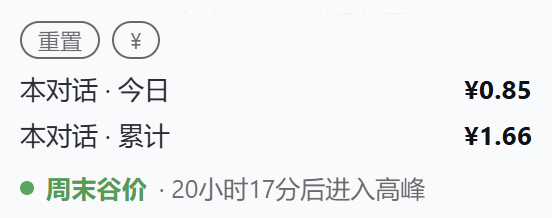
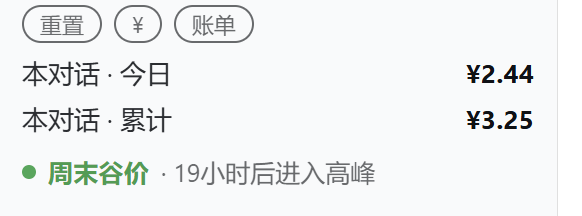
docs: refresh screenshot, drop the feedback section

diff --git a/README.en.md b/README.en.md
@@ -6,7 +6,7 @@
 [![License: MIT](https://img.shields.io/badge/License-MIT-blue.svg)](LICENSE)
 [![Release](https://img.shields.io/github/v/release/Fireawa/dsh-convo-tally)](https://github.com/Fireawa/dsh-convo-tally/releases)
 
-![Sidebar widget: reset button, currency toggle, today and total amounts, peak/off-peak badge](https://raw.githubusercontent.com/Fireawa/dsh-convo-tally/main/docs/screenshot.png)
+![Sidebar widget: reset, currency toggle and bill buttons; today and total amounts; peak/off-peak badge](https://raw.githubusercontent.com/Fireawa/dsh-convo-tally/main/docs/screenshot.png)
 
 [中文](README.md) · [Changelog](CHANGELOG.md) · [License](#license)
 
@@ -146,15 +146,6 @@ lib/pricing.js     official price tables, peak-window logic, cost math (pure fun
 lib/client.js      browser: the probe, the sidebar widget, the two buttons
 test/              selftest / client-selftest / consistency
 ```
-
-## Feedback
-
-- Bugs, wrong amounts, or suggestions: **[open an issue](https://github.com/Fireawa/dsh-convo-tally/issues)**.
-- Please include:
-  - your DSH version and the plugin version (release tag, or `npm ls dsh-convo-tally`);
-  - the amount shown in the sidebar vs. the official bill, when the number looks wrong;
-  - steps to reproduce: when it started, whether you switched currency or reset.
-- Issues are the main channel; pull requests are not guaranteed to be merged.
 
 ## License
 

diff --git a/README.md b/README.md
@@ -6,7 +6,7 @@
 [![License: MIT](https://img.shields.io/badge/License-MIT-blue.svg)](LICENSE)
 [![Release](https://img.shields.io/github/v/release/Fireawa/dsh-convo-tally)](https://github.com/Fireawa/dsh-convo-tally/releases)
 
-![侧栏效果：重置按钮、币种切换、本对话今日与累计金额、峰谷角标](https://raw.githubusercontent.com/Fireawa/dsh-convo-tally/main/docs/screenshot.png)
+![侧栏效果：重置 / 币种切换 / 账单三个按钮，本对话今日与累计金额，峰谷角标](https://raw.githubusercontent.com/Fireawa/dsh-convo-tally/main/docs/screenshot.png)
 
 [English](README.en.md) · [更新日志](CHANGELOG.md) · [许可](#许可)
 
@@ -151,15 +151,6 @@ lib/pricing.js     官方价目表、峰谷判定、花费计算（纯函数）
 lib/client.js      浏览器侧：探针 + 侧栏渲染 + 两个按钮
 test/              selftest / client-selftest / consistency
 ```
-
-## 反馈
-
-- 遇到问题、发现金额对不上，或想提建议：**[开 issue](https://github.com/Fireawa/dsh-convo-tally/issues)**。
-- 报问题时请尽量带上：
-  - DSH 版本与插件版本（Release 版本号，或 `npm ls dsh-convo-tally`）；
-  - 侧栏显示金额与官方账单的对比（涉及计价偏差时）；
-  - 复现步骤：什么时候开始的、切过币种或重置过没有。
-- 以 issue 为主，PR 不保证合并。
 
 ## 许可
 

diff --git a/CHANGELOG.md b/CHANGELOG.md
@@ -16,6 +16,8 @@
 
 - 安装段的版本号从 `v0.1.1` 更正为 `v0.2.1`（此前漏更，照着装会拿到旧版）。
 - 补「升级会重算历史」说明：`stateVersion` 升版后旧缓存作废，首次打开会重新折叠一次，不影响数据。
+- 侧栏截图换成带「账单」按钮的版本。
+- 删除「反馈」小节。
 
 ## [0.2.0] - 2026-10-25
 
